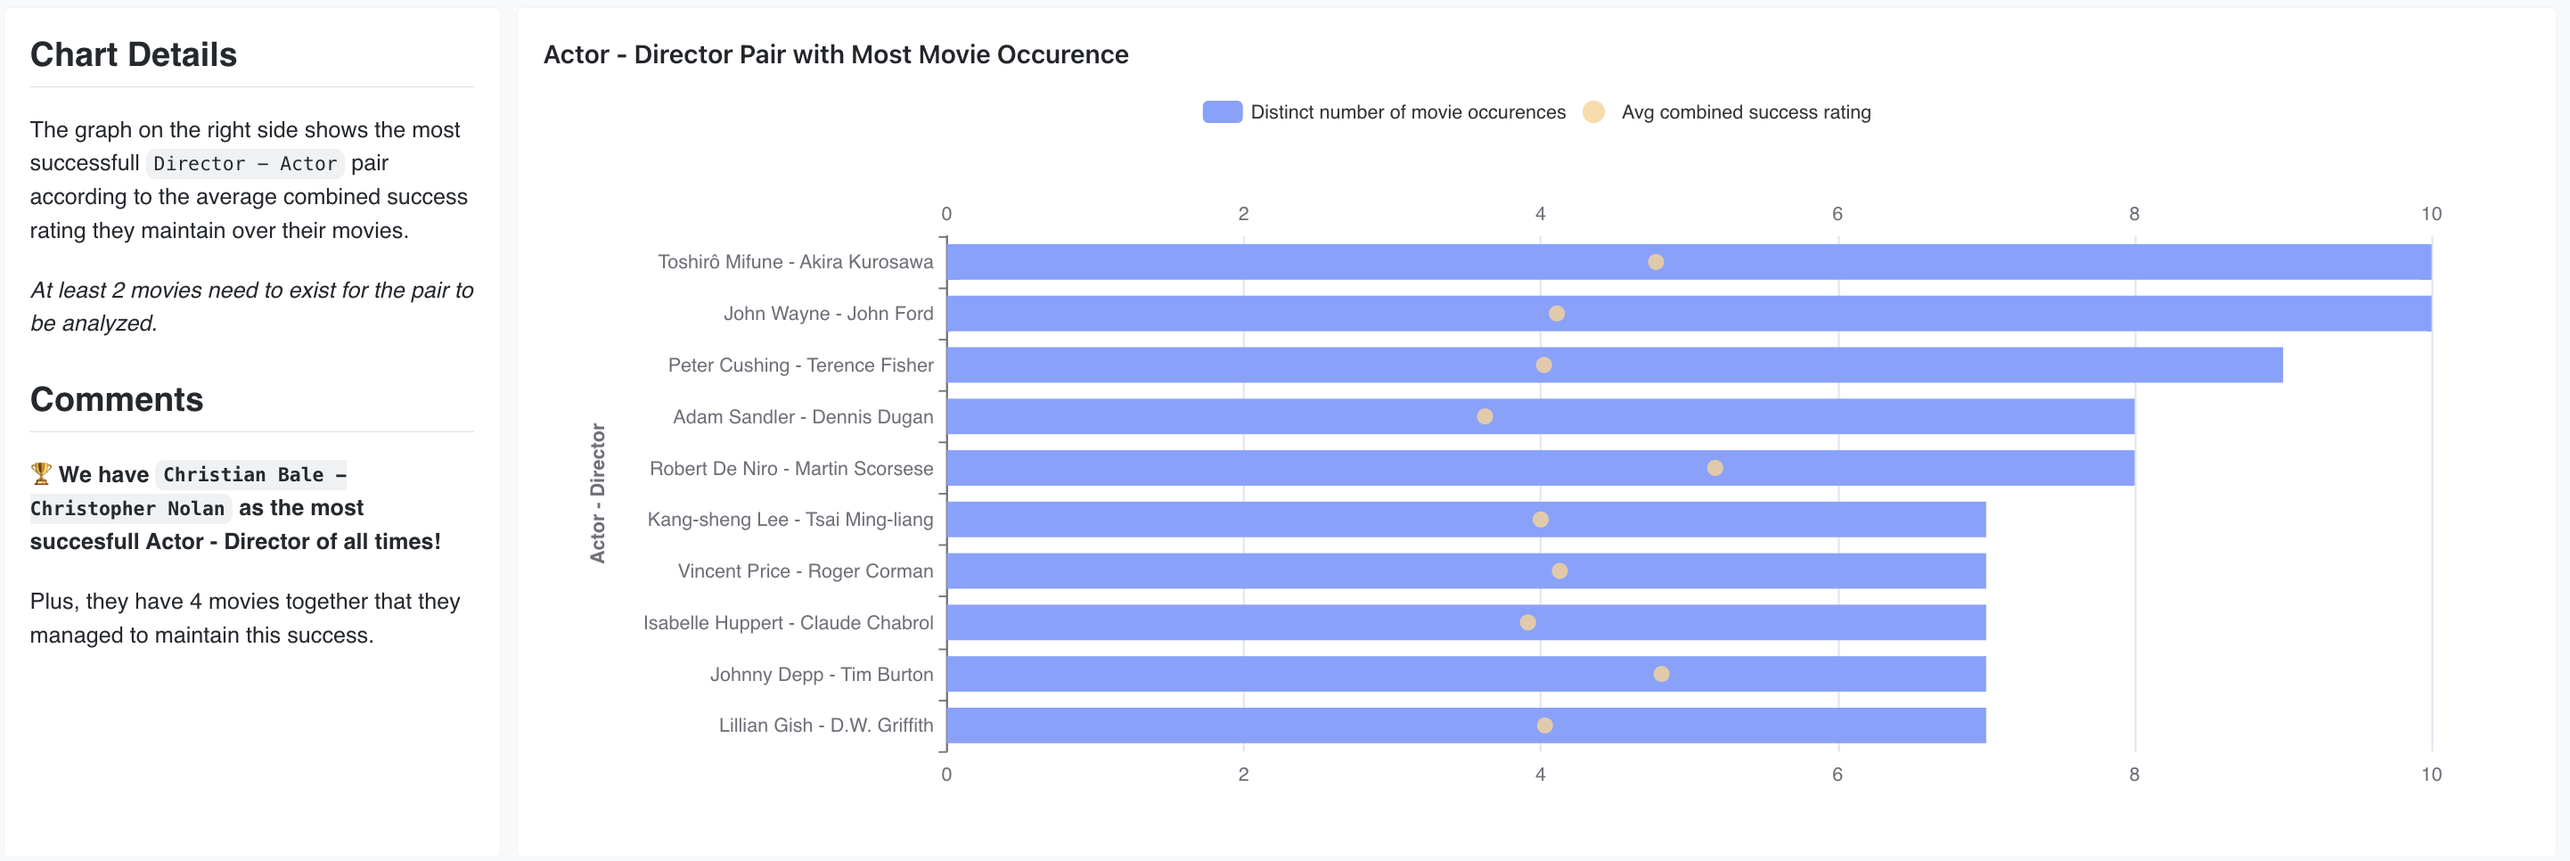
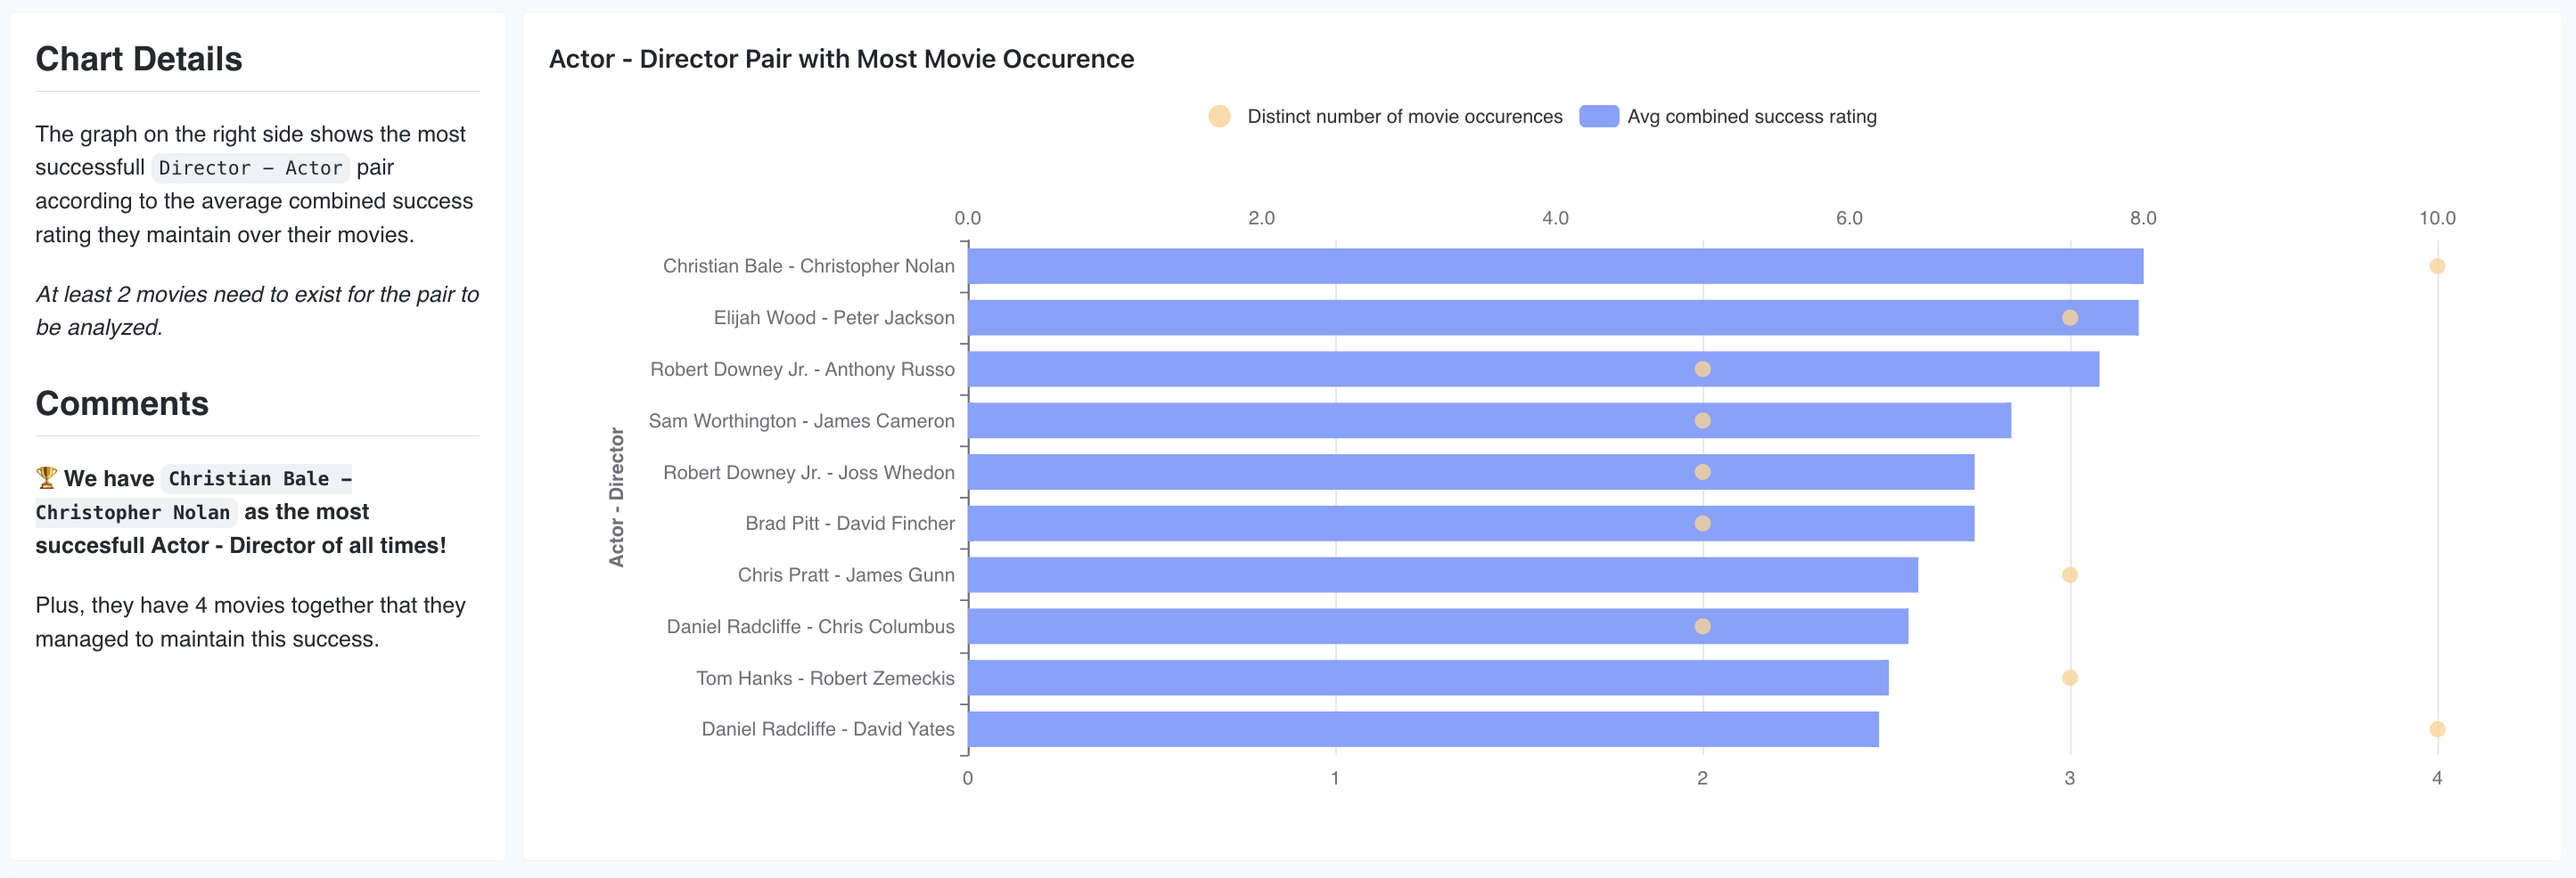
change image

diff --git a/README.md b/README.md
@@ -129,18 +129,13 @@ in these individual success catgeories.
 
 ![plot](https://github.com/paradime-io/paradime-dbt-movie-challenge/blob/movie-isin-pesch-deel-com/images/top10_imdbrating.png?raw=True)
 
-
-
 2. Top 10 movies by number of awards won
 
-![plot](https://github.com/paradime-io/paradime-dbt-movie-challenge/blob/movie-isin-pesch-deel-com/images/top10_awards.png?raw=true)
-
+![plot](https://github.com/paradime-io/paradime-dbt-movie-challenge/blob/movie-isin-pesch-deel-com/images/top10_awards.png?raw=True)
 
 3. Top 10 movies by Inflation Corrected Revenue
-Here we use inflation corrected revenue instead of raw revenue numbers to
-get a fair comparison for movies released over the years.
 
-![plot](https://github.com/paradime-io/paradime-dbt-movie-challenge/blob/movie-isin-pesch-deel-com/images/top10_revenue.png?raw=true)
+![plot](https://github.com/paradime-io/paradime-dbt-movie-challenge/blob/movie-isin-pesch-deel-com/images/top10_revenue.png?raw=True)
 
 As it can be seen from the above data different movies are winning in different success categories.
 We can't easily drive a conclusion for the best movies by just looking at these success metrics separately.
@@ -149,62 +144,41 @@ We can't easily drive a conclusion for the best movies by just looking at these 
 We will try to use all the success metrics and adjust them with weights to make a final conculsion on the 
 best movies ever created. Refer to [this](#calculating-movie-success) section to see how weights are adjusted.
 
-![plot](https://github.com/paradime-io/paradime-dbt-movie-challenge/blob/movie-isin-pesch-deel-com/images/top10_ultimate_combined.png?raw=true)
-
-🏆 `The Dark Knight` 🦇⚔ is the best movie of all times according to our combined success metric!
+![plot](https://github.com/paradime-io/paradime-dbt-movie-challenge/blob/movie-isin-pesch-deel-com/images/top10_ultimate_combined.png?raw=True)
 
 We can dive deep into individual contributor success metrics for the top 10 list above to understand
 why `The Dark Knight` wins. 
 
-*Below values are presented in their normalized form (0-10) for ease of visualization and 
-comparison.*
+![plot](https://github.com/paradime-io/paradime-dbt-movie-challenge/blob/movie-isin-pesch-deel-com/images/top10_indv_normalized.png?raw=True)
 
-![plot](https://github.com/paradime-io/paradime-dbt-movie-challenge/blob/movie-isin-pesch-deel-com/images/top10_indv_normalized.png?raw=true)
-
-Looking at above, `The Dark Knight` wins because it has a very high IMDB rating of 9 but at the same time
-it maintains very big numbers of IMDB Voters. These are 2 metrics that has the most weight in our combined success metric.
 
 We can further look at the raw numbers for each movie in the top 10 list.
 
-![plot](https://github.com/paradime-io/paradime-dbt-movie-challenge/blob/movie-isin-pesch-deel-com/images/top10_deepdive.png?raw=true)
+![plot](https://github.com/paradime-io/paradime-dbt-movie-challenge/blob/movie-isin-pesch-deel-com/images/top10_deepdive.png?raw=True)
 
 ### Change in Movie Success
 So far, we have identifed the most successfull movies. In this section we will look at the change in overall movie success
 over the years to identify trends.
 
-Below graph shows how combined movie success changes in the last 50 years together with the number of movies released
-each year.
+![plot](https://github.com/paradime-io/paradime-dbt-movie-challenge/blob/movie-isin-pesch-deel-com/images/change_in_movie_success.png?raw=True)
 
-![plot](https://github.com/paradime-io/paradime-dbt-movie-challenge/blob/movie-isin-pesch-deel-com/images/change_in_movie_success.png?raw=true)
 
-The number of movies grew after the end of the 90s and reached a peak at 2019. The drop after this year is very likely related to COVID-19
-as lots of operations throughout the world came to a halt.
-If we look at movie success, we see a sharp drop at the end of the 80s. We will dive deeper to investigate why this is happening.
+![plot](https://github.com/paradime-io/paradime-dbt-movie-challenge/blob/movie-isin-pesch-deel-com/images/drop_in_success.png?raw=True)
 
-![plot](https://github.com/paradime-io/paradime-dbt-movie-challenge/blob/movie-isin-pesch-deel-com/images/drop_in_success.png?raw=true)
-
-As mentioned before, IMDB Rating and IMDB Votes are very effective metrics for the combined succes. If we look at the above graph, we see
-that IMDB rating stays much or less the same over the years but IMDB Votes significantly increase after the 90s which in turn increases the significance of imdb ratings
-inside the combined success metric. That is why the overall combined success metric drops. (Lower imdb ratings become more important)
-The reason that IMDB Votes suddenly increase at the end of the 80s is because, 1990 is the year that IMDB began as a fan-operated movie database! 🍿
 
 ### Most Popular Months for Movie Releases
 
 Since we were looking at the yearly changes, we can further look into months to see if we have any trendy months for movie releases.
-The data of the last 9 years shows us that number of movie releases peak in November for every single year.
-Contrary to that, the movie success drops on January each year.
 
-![plot](https://github.com/paradime-io/paradime-dbt-movie-challenge/blob/movie-isin-pesch-deel-com/images/popular_months_of_release.png?raw=true)
+![plot](https://github.com/paradime-io/paradime-dbt-movie-challenge/blob/movie-isin-pesch-deel-com/images/popular_months_of_release.png?raw=True)
 
 
 ### Actor and Director Success
 So far, we have looked at the success for each individual movie. It would be interesting to see the most successful actor-director
 pair that have at least 2 different movies and still managed to maintain a good success record over different movies.  
 
-![plot](https://github.com/paradime-io/paradime-dbt-movie-challenge/blob/movie-isin-pesch-deel-com/images/top10_actor_director.png?raw=true)
+![plot](https://github.com/paradime-io/paradime-dbt-movie-challenge/blob/movie-isin-pesch-deel-com/images/top10_actor_director.png?raw=True)
 
-🏆 We have `Christian Bale - Christopher Nolan` as the most succesfull Actor - Director of all times! Plus, they have 4 movies together that
-they managed to maintain this success.
 
 Below, we can see the deep dive into the individual success metrics of the Top 10 Actor - Director pair.
 
